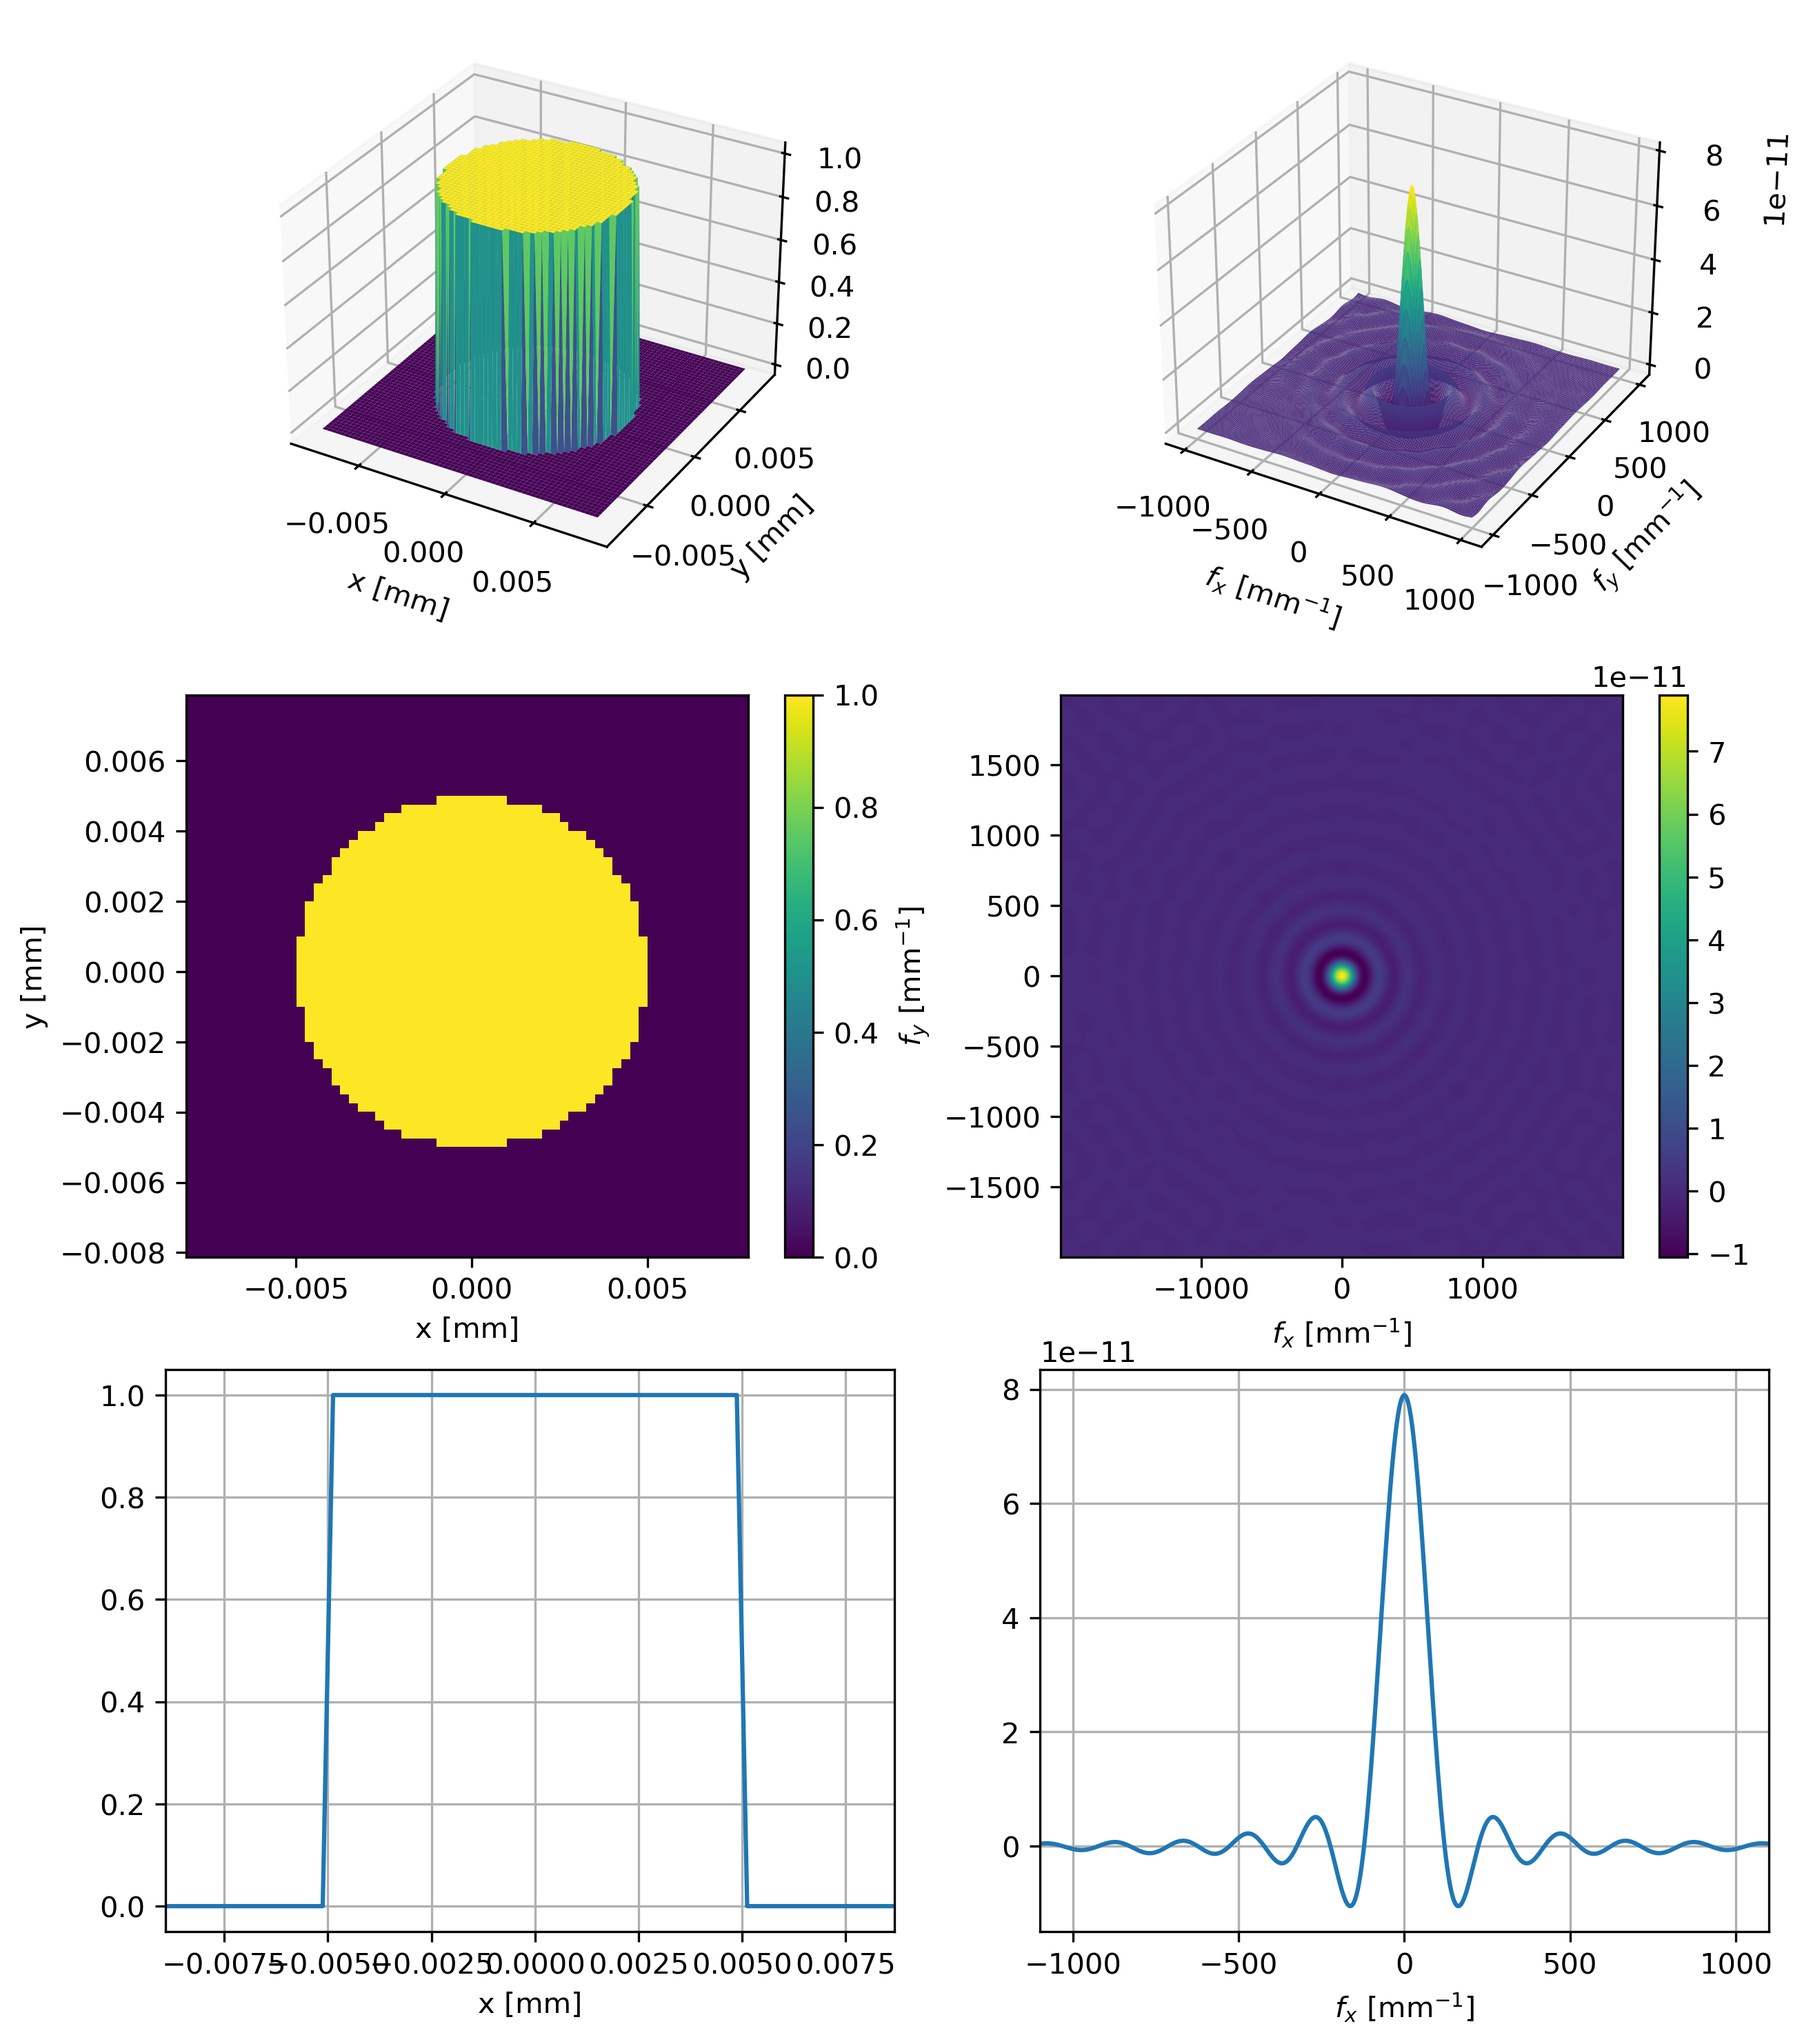
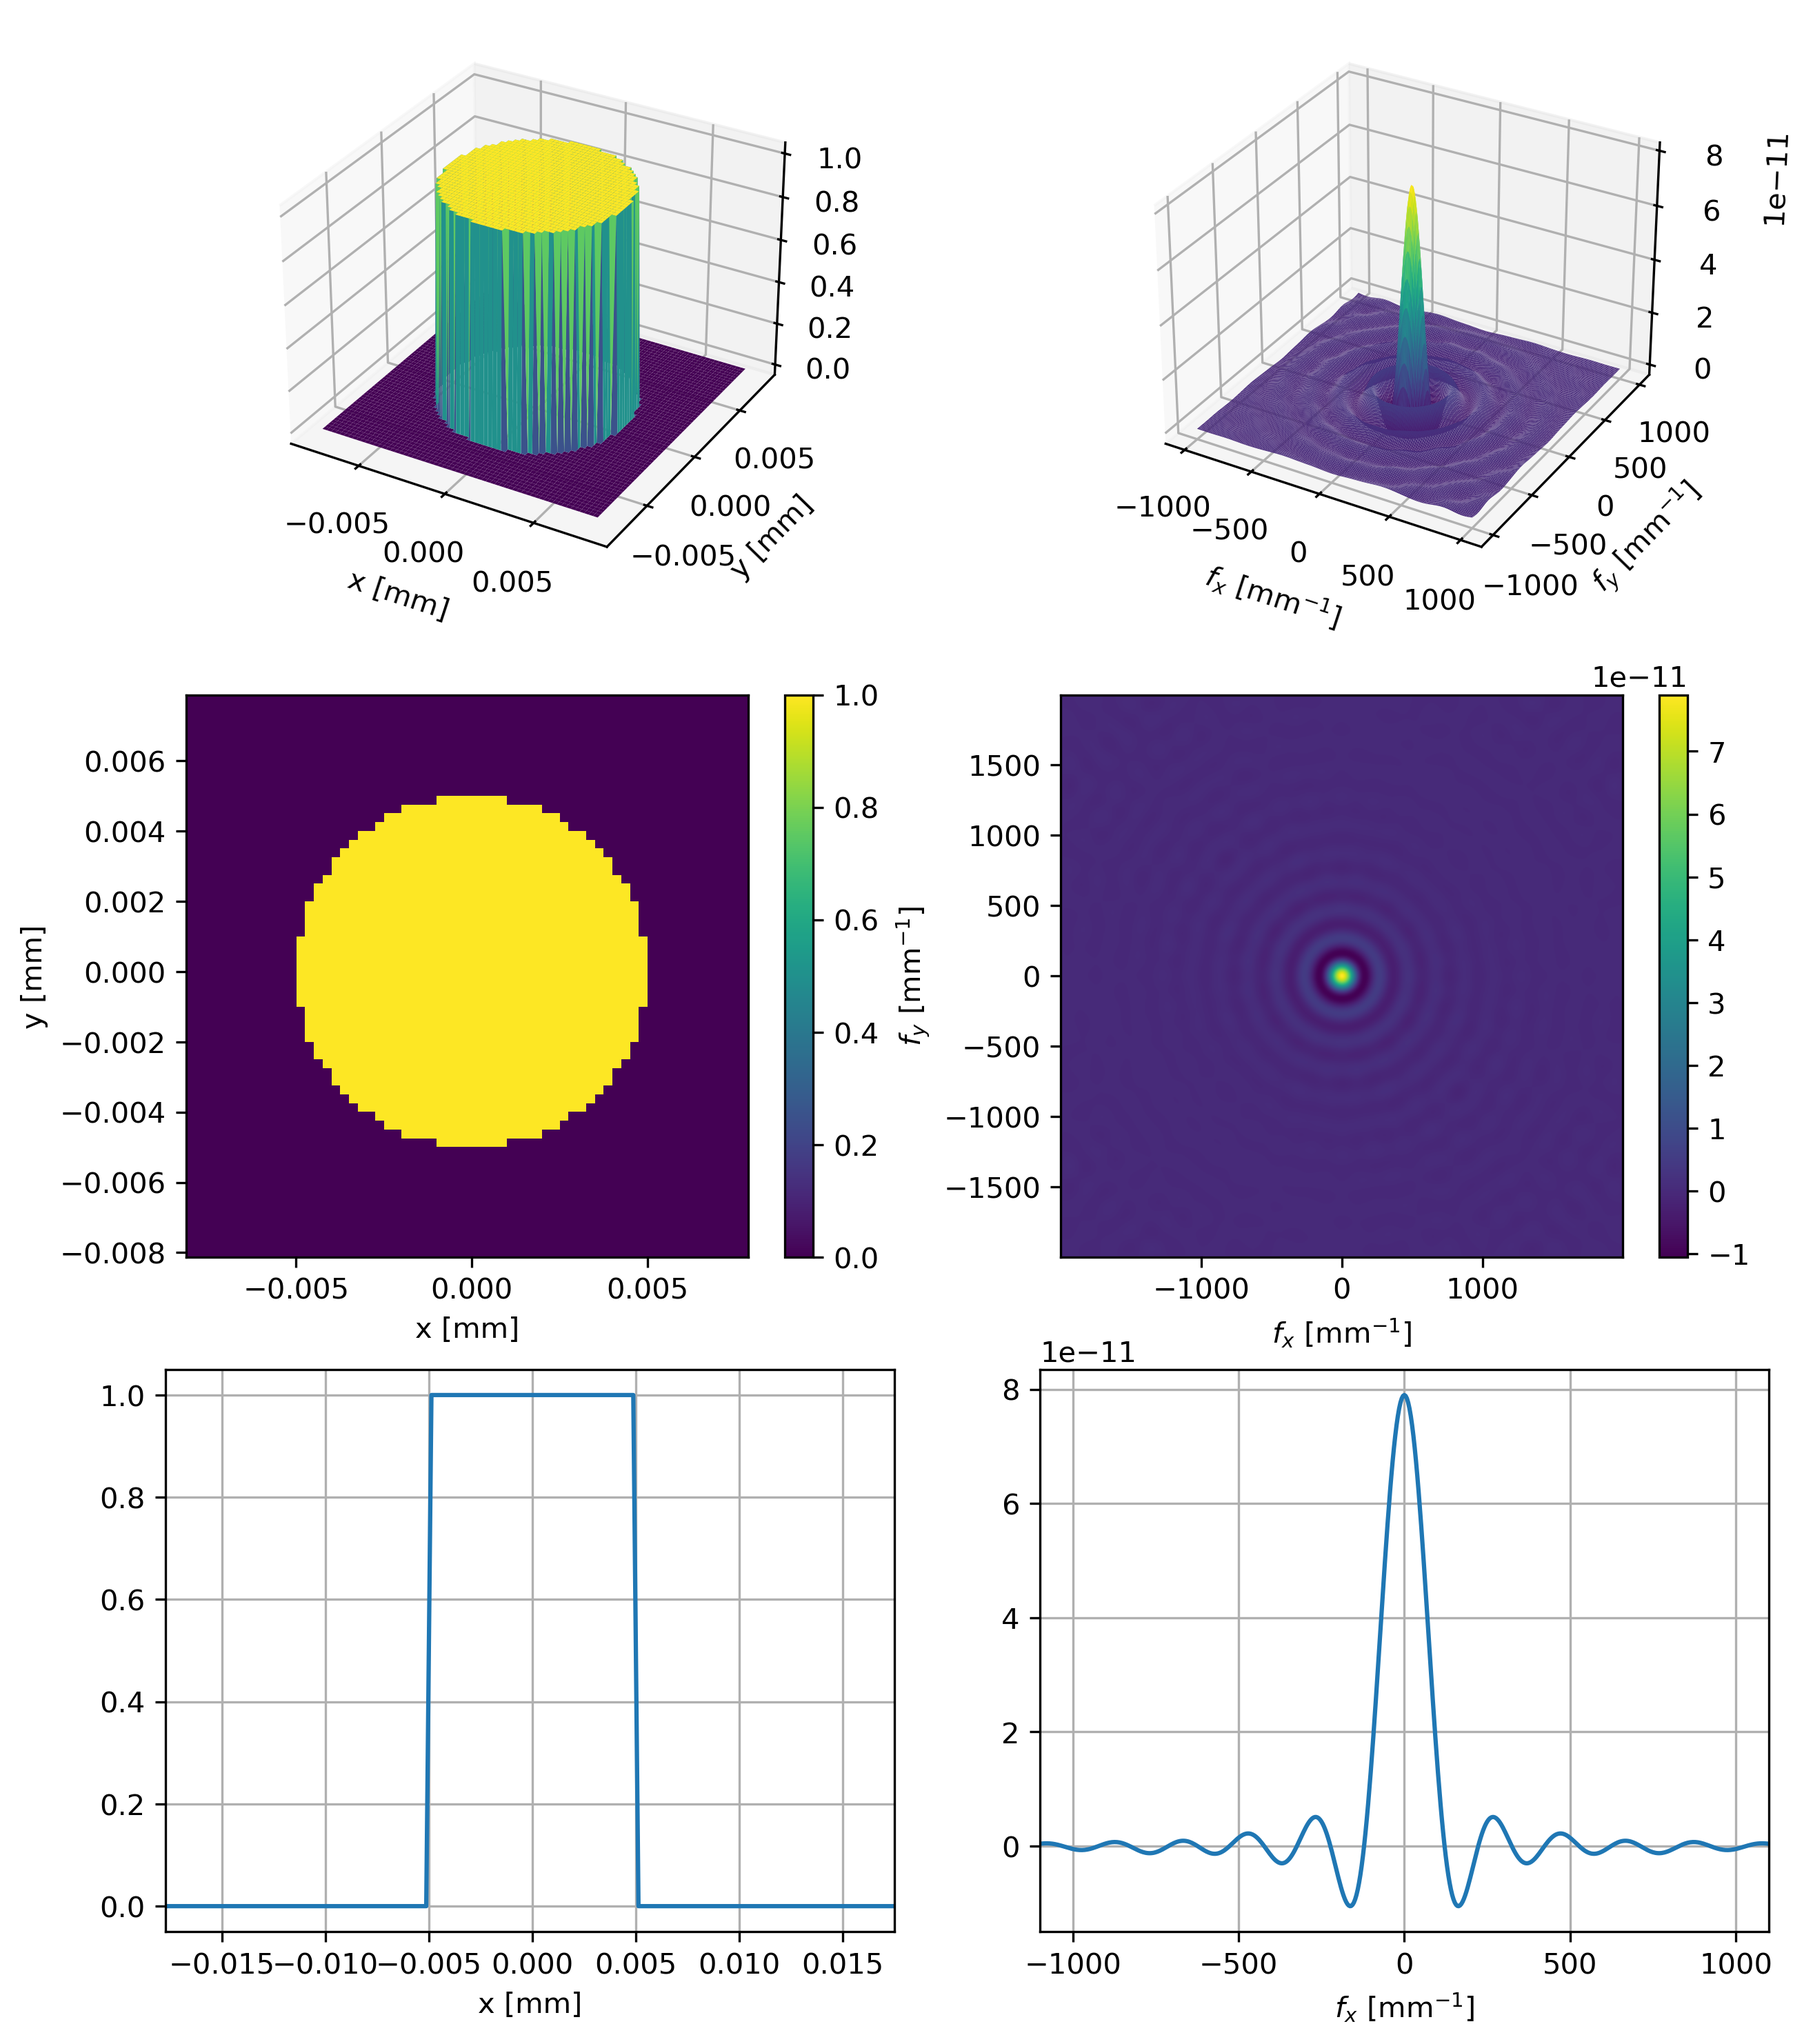
Updated figure for handbook.

diff --git a/examples/example02_fourier_transform.py b/examples/example02_fourier_transform.py
@@ -80,13 +80,13 @@ show_image(np.real(A),grid,ax = ax4,domain="frequency")
 # 1D plot
 ax5 = fig.add_subplot(3, 2, 5)
 ax6 = fig.add_subplot(3, 2, 6)
-show_lineplot(np.real(field.U), grid, ax = ax5, direction="horizontal", domain="space",zoom=16)
+show_lineplot(np.real(field.U), grid, ax = ax5, direction="horizontal", domain="space",zoom=8)
 show_lineplot(np.real(A), grid, ax = ax6, direction="horizontal", domain="frequency",zoom=2)
 
 # plt.tight_layout()
 # Export figure for the handbook
-# OUTPUT_FILE = "../docs/handbook/fig/circle_Fourier"
-# fig.savefig(OUTPUT_FILE+".pdf", bbox_inches="tight")
-# fig.savefig(OUTPUT_FILE+".png", dpi=300, bbox_inches="tight")
+OUTPUT_FILE = "../docs/handbook/fig/circle_Fourier"
+fig.savefig(OUTPUT_FILE+".pdf", bbox_inches="tight")
+fig.savefig(OUTPUT_FILE+".png", dpi=300, bbox_inches="tight")
 
 plt.show()
